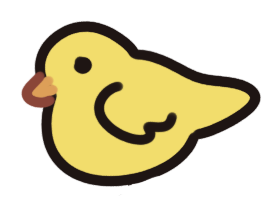
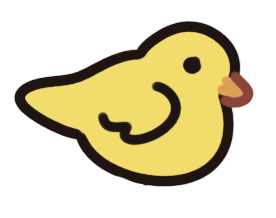
added all birds

diff --git a/src/components/BirdCanvasElement.tsx b/src/components/BirdCanvasElement.tsx
@@ -5,7 +5,7 @@ import {
   canPeckAtPosition,
   nearestNearbyFoodCenter,
 } from '../lib/garden/birdBehavior';
-import { randomHopPointAvoidingCollisions } from '../lib/garden/birdCollision';
+import { randomHopPointAvoidingCollisions, hopAnchorOverlapsOthers } from '../lib/garden/birdCollision';
 import type { SurfaceRect } from '../lib/garden/types';
 import {
   cacheNaturalHeight,
@@ -79,7 +79,7 @@ interface BirdCanvasElementProps {
   className: string;
   /** Other birds' collision boxes in world space (excludes this bird). */
   otherBirdCollisionRects?: SurfaceRect[];
-  onPositionChange?: (x: number, y: number) => void;
+  onPositionChange?: (x: number, y: number, flipX: boolean) => void;
   onPointerDown?: (event: ReactPointerEvent<HTMLImageElement>) => void;
 }
 
@@ -110,7 +110,7 @@ function pickIdleAction(
   return 'wait';
 }
 
-const HOP_TARGET_ATTEMPTS = 16;
+const HOP_TARGET_ATTEMPTS = 32;
 
 function pickHopTarget(
   behavior: PlacedBirdBehavior,
@@ -123,10 +123,11 @@ function pickHopTarget(
 ): { x: number; y: number } | null {
   let fallback: { x: number; y: number } | null = null;
   for (let attempt = 0; attempt < HOP_TARGET_ATTEMPTS; attempt++) {
-    const candidate = randomPointOnSurface(
+    const candidate = randomHopPointAvoidingCollisions(
       behavior.hopSurfaces,
       collisionBox,
       otherRects,
+      fromX,
     );
     if (!candidate) continue;
     fallback = candidate;
@@ -137,25 +138,6 @@ function pickHopTarget(
     if (preferFly === isLong) return candidate;
   }
   return fallback;
-}
-
-function randomPointOnSurface(
-  surfaces: PlacedBirdBehavior['hopSurfaces'],
-  collisionBox: PlacedElement['birdCollisionBox'],
-  otherRects: SurfaceRect[],
-): { x: number; y: number } | null {
-  const avoided = randomHopPointAvoidingCollisions(
-    surfaces,
-    collisionBox,
-    otherRects,
-  );
-  if (avoided) return avoided;
-  if (surfaces.length === 0) return null;
-  const surface = surfaces[Math.floor(Math.random() * surfaces.length)]!;
-  return {
-    x: surface.x + Math.random() * surface.width,
-    y: surface.y + Math.random() * surface.height,
-  };
 }
 
 export function BirdCanvasElement({
@@ -174,6 +156,7 @@ export function BirdCanvasElement({
   const [posX, setPosX] = useState(element.x);
   const [posY, setPosY] = useState(element.y);
   const [flipX, setFlipX] = useState(element.flipX);
+  const flipRef = useRef(element.flipX);
   const [frameIndex, setFrameIndex] = useState(behavior.idleFrame);
   const [hopAnim, setHopAnim] = useState<HopAnim | null>(null);
 
@@ -218,11 +201,26 @@ export function BirdCanvasElement({
     setPosY(element.y);
   }, [element.x, element.y]);
 
+  useEffect(() => {
+    flipRef.current = element.flipX;
+    setFlipX(element.flipX);
+  }, [element.flipX]);
+
+  useEffect(() => {
+    onPositionChangeRef.current?.(element.x, element.y, element.flipX);
+  }, [element.id, element.x, element.y, element.flipX]);
+
   const syncPosition = useCallback((x: number, y: number) => {
     posRef.current = { x, y };
     setPosX(x);
     setPosY(y);
-    onPositionChangeRef.current?.(x, y);
+    onPositionChangeRef.current?.(x, y, flipRef.current);
+  }, []);
+
+  const setFacing = useCallback((nextFlipX: boolean) => {
+    flipRef.current = nextFlipX;
+    setFlipX(nextFlipX);
+    onPositionChangeRef.current?.(posRef.current.x, posRef.current.y, nextFlipX);
   }, []);
 
   const snapRestPosition = useCallback(
@@ -312,7 +310,17 @@ export function BirdCanvasElement({
       const b = behaviorRef.current;
       const el = elementRef.current;
       const { x, y } = posRef.current;
-      const action = pickIdleAction(b, x, y);
+      const overlaps = hopAnchorOverlapsOthers(
+        x,
+        y,
+        el.birdCollisionBox,
+        otherRectsRef.current,
+        flipRef.current,
+      );
+      const action =
+        overlaps && b.hopEnabled && b.hopSurfaces.length > 0
+          ? 'hop'
+          : pickIdleAction(b, x, y);
       if (action === 'hop') {
         const from = posRef.current;
         const idleWidthNorm = idleDisplayWidthNorm(
@@ -342,7 +350,7 @@ export function BirdCanvasElement({
           const loopWingflap =
             distanceNorm > idleWidthNorm && b.wingflapFrames.length > 1;
           const durationMs = hopDurationMs(distanceNorm, b.hopNormPerSec);
-          setFlipX(target.x < from.x);
+          setFacing(target.x < from.x);
           const hopGen = animGenRef.current;
           setHopAnim({
             fromX: from.x,
@@ -357,6 +365,10 @@ export function BirdCanvasElement({
           if (loopWingflap) {
             startHopWingflapLoop(hopGen);
           }
+          return;
+        }
+        if (overlaps) {
+          scheduleIdle();
           return;
         }
       }
@@ -385,7 +397,7 @@ export function BirdCanvasElement({
       }
       if (action === 'peck' && canPeckAtPosition(b, x, y)) {
         const food = nearestNearbyFoodCenter(x, y, b.foodSurfaces);
-        if (food) setFlipX(food.x < x);
+        if (food) setFacing(food.x < x);
         setState('peck');
         const gen = animGenRef.current;
         let fi = 0;

diff --git a/src/components/GardenSceneCanvas.tsx b/src/components/GardenSceneCanvas.tsx
@@ -92,7 +92,12 @@ const EDITOR_NEAR_ELEMENT_THRESHOLD = 0.12;
 
 function birdWorldCollisionRect(el: PlacedElement): SurfaceRect | null {
   if (!el.birdCollisionBox) return null;
-  const world = worldBirdCollisionRect(el.x, el.y, el.birdCollisionBox);
+  const world = worldBirdCollisionRect(
+    el.x,
+    el.y,
+    el.birdCollisionBox,
+    el.flipX,
+  );
   return { ...world, id: el.id };
 }
 
@@ -156,7 +161,7 @@ export function GardenSceneCanvas({
   const canvasRef = useRef<HTMLDivElement>(null);
   const draggingIdRef = useRef<string | null>(null);
   const [birdPositions, setBirdPositions] = useState<
-    Record<string, { x: number; y: number }>
+    Record<string, { x: number; y: number; flipX: boolean }>
   >({});
   const surfaceSessionRef = useRef<
     | {
@@ -243,9 +248,12 @@ export function GardenSceneCanvas({
     return elements.find((el) => el.id === selectedId && el.kind === 'birdAmbientStage') ?? null;
   }, [editable, elements, selectedId]);
 
-  const handleBirdPositionChange = useCallback((id: string, x: number, y: number) => {
-    setBirdPositions((prev) => ({ ...prev, [id]: { x, y } }));
-  }, []);
+  const handleBirdPositionChange = useCallback(
+    (id: string, x: number, y: number, flipX: boolean) => {
+      setBirdPositions((prev) => ({ ...prev, [id]: { x, y, flipX } }));
+    },
+    [],
+  );
 
   useLayoutEffect(() => {
     if (!bandReady) return;
@@ -1113,7 +1121,10 @@ export function GardenSceneCanvas({
               renderSurfaceRect(draftSurfaceRect, surfaceTool, { draft: true })}
           </div>
         )}
-        {!editable && gameplaySurfaces && hasSurfaceLayer && (
+        {import.meta.env.DEV &&
+          !editable &&
+          gameplaySurfaces &&
+          hasSurfaceLayer && (
           <div className="garden-surface-layer garden-surface-layer--runtime" aria-hidden>
             {gameplaySurfaces.hop.map((r) =>
               renderSurfaceRect(r, 'hop', { runtime: true }),
@@ -1153,11 +1164,13 @@ export function GardenSceneCanvas({
                   const otherPos = birdPositions[other.id] ?? {
                     x: other.x,
                     y: other.y,
+                    flipX: other.flipX,
                   };
                   const world = worldBirdCollisionRect(
                     otherPos.x,
                     otherPos.y,
                     other.birdCollisionBox!,
+                    otherPos.flipX,
                   );
                   return { ...world, id: other.id };
                 });
@@ -1179,8 +1192,8 @@ export function GardenSceneCanvas({
                   className="garden-canvas__el garden-canvas__el--bird"
                   style={elStyle}
                   otherBirdCollisionRects={otherRects}
-                  onPositionChange={(x, y) =>
-                    handleBirdPositionChange(el.id, x, y)
+                  onPositionChange={(x, y, flipX) =>
+                    handleBirdPositionChange(el.id, x, y, flipX)
                   }
                 />
               );

diff --git a/src/lib/garden/birdCollision.ts b/src/lib/garden/birdCollision.ts
@@ -1,17 +1,29 @@
 import type { BirdCollisionBox, SurfaceRect } from './types';
 
+/** Mirror a collision box when the bird sprite is flipped horizontally. */
+export function flipBirdCollisionBox(box: BirdCollisionBox): BirdCollisionBox {
+  return {
+    offsetX: -box.offsetX - box.width,
+    offsetY: box.offsetY,
+    width: box.width,
+    height: box.height,
+  };
+}
+
 /** World-space collision rect from a bird anchor and layout offset box. */
 export function worldBirdCollisionRect(
   anchorX: number,
   anchorY: number,
   box: BirdCollisionBox,
+  flipX = false,
 ): SurfaceRect {
+  const resolved = flipX ? flipBirdCollisionBox(box) : box;
   return {
     id: '',
-    x: anchorX + box.offsetX,
-    y: anchorY + box.offsetY,
-    width: box.width,
-    height: box.height,
+    x: anchorX + resolved.offsetX,
+    y: anchorY + resolved.offsetY,
+    width: resolved.width,
+    height: resolved.height,
   };
 }
 
@@ -38,14 +50,32 @@ export function rectsOverlap(a: SurfaceRect, b: SurfaceRect): boolean {
   );
 }
 
-function hopPointOverlapsOthers(
+function anchorInsideRect(
+  anchorX: number,
+  anchorY: number,
+  rect: SurfaceRect,
+): boolean {
+  return (
+    anchorX >= rect.x &&
+    anchorX <= rect.x + rect.width &&
+    anchorY >= rect.y &&
+    anchorY <= rect.y + rect.height
+  );
+}
+
+/** True when this bird's anchor or collision box overlaps another bird's box. */
+export function hopAnchorOverlapsOthers(
   anchorX: number,
   anchorY: number,
   collisionBox: BirdCollisionBox | undefined,
   otherRects: SurfaceRect[],
+  flipX = false,
 ): boolean {
-  if (!collisionBox) return false;
-  const self = worldBirdCollisionRect(anchorX, anchorY, collisionBox);
+  if (otherRects.length === 0) return false;
+  if (!collisionBox) {
+    return otherRects.some((other) => anchorInsideRect(anchorX, anchorY, other));
+  }
+  const self = worldBirdCollisionRect(anchorX, anchorY, collisionBox, flipX);
   return otherRects.some((other) => rectsOverlap(self, other));
 }
 
@@ -54,7 +84,8 @@ export function randomHopPointAvoidingCollisions(
   surfaces: SurfaceRect[],
   collisionBox: BirdCollisionBox | undefined,
   otherRects: SurfaceRect[],
-  maxAttempts = 24,
+  fromX?: number,
+  maxAttempts = 48,
 ): { x: number; y: number } | null {
   if (surfaces.length === 0) return null;
 
@@ -62,7 +93,8 @@ export function randomHopPointAvoidingCollisions(
     const surface = surfaces[Math.floor(Math.random() * surfaces.length)]!;
     const x = surface.x + Math.random() * surface.width;
     const y = surface.y + Math.random() * surface.height;
-    if (!hopPointOverlapsOthers(x, y, collisionBox, otherRects)) {
+    const flipX = fromX != null ? x < fromX : false;
+    if (!hopAnchorOverlapsOthers(x, y, collisionBox, otherRects, flipX)) {
       return { x, y };
     }
   }
